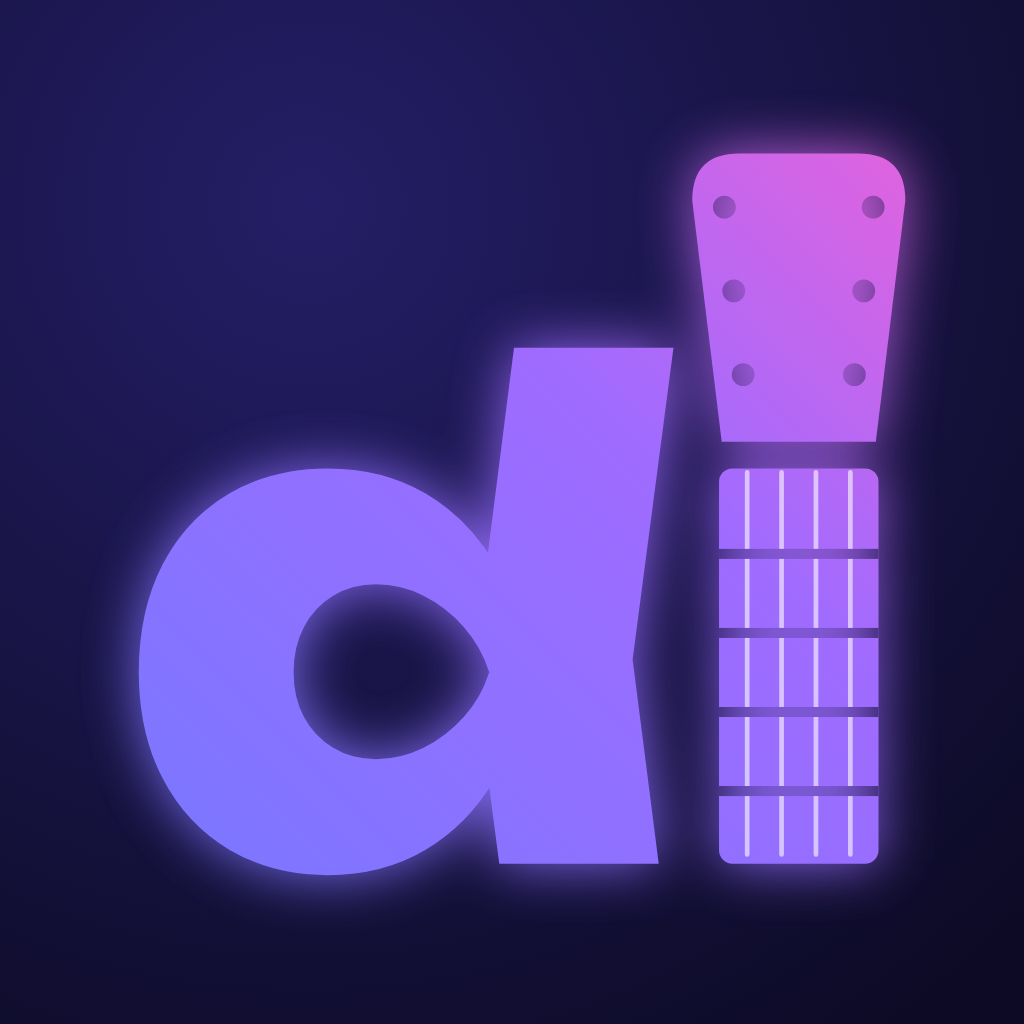
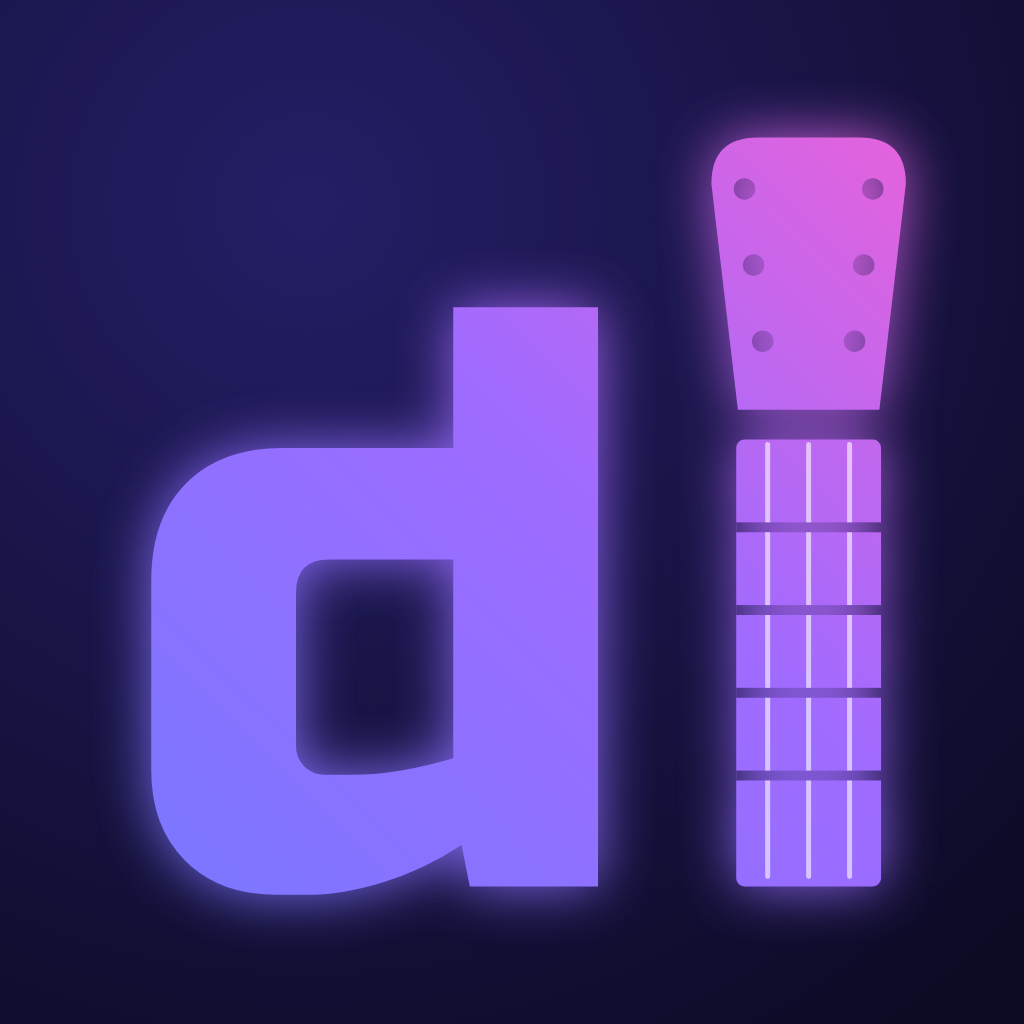
Логотип и заголовки на шрифте Russo One (сайт и приложение)
Claude-Session: https://claude.ai/code/session_01UK4vD2FhiZCAT2hytWhD3y

Changed region(s): [[0.125, 0.0938, 0.9062, 0.9062], [0.2812, 0.5312, 0.5, 0.7812]]

diff --git a/index.html b/index.html
@@ -17,17 +17,18 @@
 <meta property="og:type" content="website">
 <meta name="theme-color" content="#0C0A24">
 <link rel="preconnect" href="https://fonts.googleapis.com">
-<link href="https://fonts.googleapis.com/css2?family=Unbounded:wght@500;800&family=Manrope:wght@500;700;800&display=swap" rel="stylesheet">
+<link href="https://fonts.googleapis.com/css2?family=Russo+One&family=Manrope:wght@500;700;800&display=swap" rel="stylesheet">
 <style>
   :root{
     /* неоновые сине-фиолетовые тона — как на стримах */
     --bg:#0C0A24; --bg2:#141137; --card:#1C1848; --card2:#251F5E; --line:#2E2870;
     --paper:#EFECFB; --muted:#A4A1D8; --neon:#6E7BFF; --pink:#FF5FCF; --shadow:#06051A; --amber:#F0A830; --amber-d:#b77a17; --ok:#6FBF73;
     --s6:#F26B6F; --s5:#F0A830; --s4:#E8D44D; --s3:#6FBF73; --s2:#5AB0E8; --s1:#B98AE8;
-    --display:'Unbounded','Arial Black',sans-serif; --body:'Manrope',system-ui,sans-serif;
+    --display:'Russo One','Arial Black',sans-serif; --body:'Manrope',system-ui,sans-serif;
     --wrap:1120px;
   }
   *{box-sizing:border-box;margin:0;padding:0}
+  html{font-synthesis:none}
   html{scroll-behavior:smooth}
   body{background:radial-gradient(1200px 700px at 8% -10%,rgba(110,123,255,.28),transparent 60%),radial-gradient(900px 600px at 105% 15%,rgba(255,95,207,.16),transparent 60%),radial-gradient(1000px 800px at 50% 110%,rgba(94,60,255,.2),transparent 60%),var(--bg);background-attachment:fixed;color:var(--paper);font-family:var(--body);font-size:17px;line-height:1.5;-webkit-font-smoothing:antialiased;overflow-x:hidden}
   a{color:inherit;text-decoration:none}
@@ -359,7 +360,7 @@ const SC=['#F26B6F','#F0A830','#E8D44D','#6FBF73','#5AB0E8','#B98AE8']; // 6 →
   for(let i=0;i<6;i++){const y=top+i*gap,w=.9+i*.45;g+=`<rect x="0" y="${y-w/2}" width="${W}" height="${w}" fill="${SC[5-i]}" opacity=".9"/>`;}
   const notes=[[1,1,'C'],[3,2,'E'],[5,3,'G'],[2,5,'C'],[4,7,'E'],[0,8,'C']]; // струна (0 = первая), лад, нота
   notes.forEach(([str,fr,n],k)=>{const x=(frets[fr-1]+frets[fr])/2,y=top+str*gap;
-    g+=`<g class="dot" style="animation-delay:${.25+k*.18}s"><circle cx="${x}" cy="${y}" r="17" fill="${SC[5-str]}"/><text x="${x}" y="${y+5.5}" text-anchor="middle" font-family="Unbounded,Arial" font-weight="800" font-size="15" fill="#1b1b1b">${n}</text></g>`;});
+    g+=`<g class="dot" style="animation-delay:${.25+k*.18}s"><circle cx="${x}" cy="${y}" r="17" fill="${SC[5-str]}"/><text x="${x}" y="${y+5.5}" text-anchor="middle" font-family="Russo One,Arial" font-weight="400" font-size="15" fill="#1b1b1b">${n}</text></g>`;});
   s.innerHTML=g;
 })();
 

diff --git a/app.html b/app.html
@@ -7,7 +7,7 @@
 <link rel="icon" type="image/svg+xml" href="brand/ditrihh-icon.svg">
 <script src="https://telegram.org/js/telegram-web-app.js"></script>
 <link rel="preconnect" href="https://fonts.googleapis.com">
-<link href="https://fonts.googleapis.com/css2?family=Unbounded:wght@500;800&family=Manrope:wght@500;700&display=swap" rel="stylesheet">
+<link href="https://fonts.googleapis.com/css2?family=Russo+One&family=Manrope:wght@500;700&display=swap" rel="stylesheet">
 <style>
   :root{
     --stage:#1E2B3C; --stage-2:#26374C; --paper:#EEE6D3; --paper-2:#ded4bd;
@@ -17,10 +17,11 @@
     --p-bg:#EEE6D3; --p-bg2:#ded4bd; --p-card:#fff8ea; --p-ink:#22201c; --p-ink2:#4a443a;
     --p-muted:#6b6457; --p-faint:#cfc4ab; --p-line:#e6dcc5; --p-accent:#4A2C1D; --p-strong:#1E2B3C;
     --p-sel-bg:#1E2B3C; --p-sel-fg:#EEE6D3; --p-lock:#ddd3bc; --p-lock-fg:#ab9f87; --p-lock-sh:#c4b99f;
-    --display:'Unbounded','Arial Black',sans-serif;
+    --display:'Russo One','Arial Black',sans-serif;
     --body:'Manrope',system-ui,sans-serif;
   }
   *{box-sizing:border-box;margin:0;padding:0}
+  html{font-synthesis:none}
   html,body{height:100%}
   body{background:var(--stage);color:var(--paper);font-family:var(--body);overflow:hidden;-webkit-tap-highlight-color:transparent;user-select:none;-webkit-user-select:none}
   button{font:inherit;color:inherit;cursor:pointer}

diff --git a/brand/make-logo.py b/brand/make-logo.py
@@ -1,65 +1,66 @@
+# Логотип ditrihh: шрифт Russo One, гриф гитары на первой «i»
 from fontTools.ttLib import TTFont
 from fontTools.pens.svgPathPen import SVGPathPen
 from fontTools.pens.transformPen import TransformPen
-from fontTools.pens.boundsPen import BoundsPen
-SP='/tmp/claude-0/-home-claude-fretboard/2b200dcc-3ea3-539e-8dcb-32b2ca31cb14/scratchpad/'
-f=TTFont(SP+'fonts/U800.ttf');gs=f.getGlyphSet();cmap=f.getBestCmap();hm=f['hmtx']
-B=1000  # базовая линия (y вниз)
+import os,sys
+SP=os.path.dirname(os.path.abspath(__file__))+'/'
+FONT=os.environ.get('FONT',SP+'fonts/RussoOne.ttf')  # шрифт Russo One (OFL) — скачать с fonts.google.com
+O=os.environ.get('OUT',SP+'logo/')
+f=TTFont(FONT);gs=f.getGlyphSet();cmap=f.getBestCmap();hm=f['hmtx']
+B=1000; TR=12
 def glyph(ch,x):
   g=cmap[ord(ch)];pen=SVGPathPen(gs);tp=TransformPen(pen,(1,0,0,-1,x,B));gs[g].draw(tp);return pen.getCommands(),hm[g][0]
-TR=-18
 x=0;paths=''
 d,adv=glyph('d',x);paths+=f'<path d="{d}"/>';x+=adv+TR
-# гитарная i: гриф = ножка, голова грифа = точка
-ix=x+66;iw=250                    # как у шрифтовой i
-nx0,nx1=ix+6,ix+iw-6              # гриф чуть уже
-XH=590
+# гитарная i (у Russo One ножка 95…270, высота 510)
+ix=x+95+10; iw=175; XH=540
+nx0,nx1=ix,ix+iw
 neckTop=B-XH
-hx,hw=ix-34,iw+68                 # голова расширяется кверху
-hy1=neckTop-40                    # зазор = верхний порожек
-hy0=B-1060                        # голова выше букв
+hx,hw=ix-30,iw+60
+hy1=neckTop-36
+hy0=B-905
 def shapes():
-  return (f'<rect x="{nx0}" y="{neckTop}" width="{nx1-nx0}" height="{XH}" rx="20"/>'
-          f'<path d="M{nx0+4},{hy1} L{hx},{hy0+70} Q{hx},{hy0} {hx+70},{hy0} L{hx+hw-70},{hy0} Q{hx+hw},{hy0} {hx+hw},{hy0+70} L{nx1-4},{hy1} Z"/>')
+  return (f'<rect x="{nx0}" y="{neckTop}" width="{iw}" height="{XH}" rx="10"/>'
+          f'<path d="M{nx0+2},{hy1} L{hx},{hy0+56} Q{hx},{hy0} {hx+56},{hy0} L{hx+hw-56},{hy0} Q{hx+hw},{hy0} {hx+hw},{hy0+56} L{nx1-2},{hy1} Z"/>')
 def cuts():
   s=''
-  for y in range(neckTop+120,B-60,118):
-    s+=f'<rect x="{nx0}" y="{y}" width="{nx1-nx0}" height="15"/>'
-  for k in range(3):   # колки по краям головы: 3 слева, 3 справа
-    yy=hy0+80+k*125; inset=48+k*14
-    s+=f'<circle cx="{hx+inset}" cy="{yy}" r="17"/><circle cx="{hx+hw-inset}" cy="{yy}" r="17"/>'
+  for y in range(neckTop+100,B-50,100):
+    s+=f'<rect x="{nx0}" y="{y}" width="{iw}" height="12"/>'
+  for k in range(3):
+    yy=hy0+62+k*92; inset=40+k*11
+    s+=f'<circle cx="{hx+inset}" cy="{yy}" r="13"/><circle cx="{hx+hw-inset}" cy="{yy}" r="13"/>'
   return s
 def strings():
-  s='';n=4
+  s='';n=3
   for k in range(n):
-    xx=nx0+42+k*((nx1-nx0-84)/(n-1))
-    s+=f'<line x1="{xx}" y1="{neckTop+6}" x2="{xx}" y2="{B-14}" stroke="#fff" stroke-opacity=".6" stroke-width="7" stroke-linecap="round"/>'
-  # струны на голове к центру
+    xx=nx0+38+k*((iw-76)/(n-1))
+    s+=f'<line x1="{xx}" y1="{neckTop+6}" x2="{xx}" y2="{B-12}" stroke="#fff" stroke-opacity=".6" stroke-width="6" stroke-linecap="round"/>'
   return s
-x+=hm[cmap[ord('i')]][0]+TR+30
+x+=320+TR+20
 for ch in 'trihh':
   d,adv=glyph(ch,x);paths+=f'<path d="{d}"/>';x+=adv+TR
-W=x+20;TOP=hy0-20;H=B+40-TOP
-def svg(bg=None,pad=110,glow=True,mono=None):
+W=x;TOP=hy0-20;H=B+30-TOP
+GR='<stop offset="0" stop-color="#6E7BFF"/><stop offset=".55" stop-color="#A06BFF"/><stop offset="1" stop-color="#FF5FCF"/>'
+def svg(bg=None,pad=100,glow=True,mono=None):
   fill=mono or 'url(#g)'
-  defs=f'''<defs><linearGradient id="g" x1="0" y1="0" x2="1" y2="0"><stop offset="0" stop-color="#6E7BFF"/><stop offset=".55" stop-color="#A06BFF"/><stop offset="1" stop-color="#FF5FCF"/></linearGradient>
+  defs=f'''<defs><linearGradient id="g" x1="0" y1="0" x2="1" y2="0">{GR}</linearGradient>
 <mask id="m" maskUnits="userSpaceOnUse" x="-600" y="-600" width="{W+1200}" height="2600"><g fill="#fff">{paths}{shapes()}</g><g fill="#000">{cuts()}</g></mask>
-<filter id="glow" x="-20%" y="-40%" width="140%" height="180%"><feGaussianBlur stdDeviation="36"/></filter></defs>'''
+<filter id="glow" x="-20%" y="-40%" width="140%" height="180%"><feGaussianBlur stdDeviation="30"/></filter></defs>'''
   bgr=f'<rect x="{-pad}" y="{TOP-pad}" width="{W+2*pad}" height="{H+2*pad}" fill="{bg}"/>' if bg else ''
   body=f'<rect x="-300" y="-300" width="{W+600}" height="2000" fill="{fill}" mask="url(#m)"/>'
   g=f'<g filter="url(#glow)" opacity=".85">{body}</g>' if glow else ''
-  return f'<svg xmlns="http://www.w3.org/2000/svg" viewBox="{-pad} {TOP-pad} {W+2*pad} {H+2*pad}">{defs}{bgr}{g}{body}<g mask="url(#m)">{strings()}</g></svg>'
+  st='' if mono else f'<g mask="url(#m)">{strings()}</g>'
+  return f'<svg xmlns="http://www.w3.org/2000/svg" viewBox="{-pad} {TOP-pad} {W+2*pad} {H+2*pad}">{defs}{bgr}{g}{body}{st}</svg>'
 def icon(bg='#0C0A24'):
-  # иконка: монограмма «di» с гитарной i
   d,_=glyph('d',0)
-  x0,x1=-10,hx+hw+10; y0,y1=hy0-10,B+20; w,h=x1-x0,y1-y0; side=max(w,h)*1.28; ox=x0-(side-w)/2; oy=y0-(side-h)/2
-  defs=f'''<defs><linearGradient id="g" x1="0" y1="1" x2="1" y2="0"><stop offset="0" stop-color="#6E7BFF"/><stop offset=".6" stop-color="#A06BFF"/><stop offset="1" stop-color="#FF5FCF"/></linearGradient>
+  x0,x1=0,hx+hw; y0,y1=hy0,B; w,h=x1-x0,y1-y0; side=max(w,h)*1.3; ox=x0-(side-w)/2; oy=y0-(side-h)/2
+  defs=f'''<defs><linearGradient id="g" x1="0" y1="1" x2="1" y2="0">{GR}</linearGradient>
 <radialGradient id="bgg" cx=".3" cy=".2" r="1"><stop offset="0" stop-color="#241E66"/><stop offset="1" stop-color="{bg}"/></radialGradient>
 <mask id="m" maskUnits="userSpaceOnUse" x="{ox}" y="{oy}" width="{side}" height="{side}"><g fill="#fff"><path d="{d}"/>{shapes()}</g><g fill="#000">{cuts()}</g></mask>
-<filter id="glow" x="-30%" y="-30%" width="160%" height="160%"><feGaussianBlur stdDeviation="42"/></filter></defs>'''
+<filter id="glow" x="-30%" y="-30%" width="160%" height="160%"><feGaussianBlur stdDeviation="34"/></filter></defs>'''
   body=f'<rect x="{ox}" y="{oy}" width="{side}" height="{side}" fill="url(#g)" mask="url(#m)"/>'
   return f'<svg xmlns="http://www.w3.org/2000/svg" viewBox="{ox} {oy} {side} {side}">{defs}<rect x="{ox}" y="{oy}" width="{side}" height="{side}" fill="url(#bgg)"/><g filter="url(#glow)" opacity=".9">{body}</g>{body}<g mask="url(#m)">{strings()}</g></svg>'
-O=SP+'logo/'
+os.makedirs(O,exist_ok=True)
 open(O+'ditrihh-logo.svg','w').write(svg())
 open(O+'ditrihh-logo-dark.svg','w').write(svg(bg='#0C0A24'))
 open(O+'ditrihh-logo-white.svg','w').write(svg(glow=False,mono='#ffffff'))
